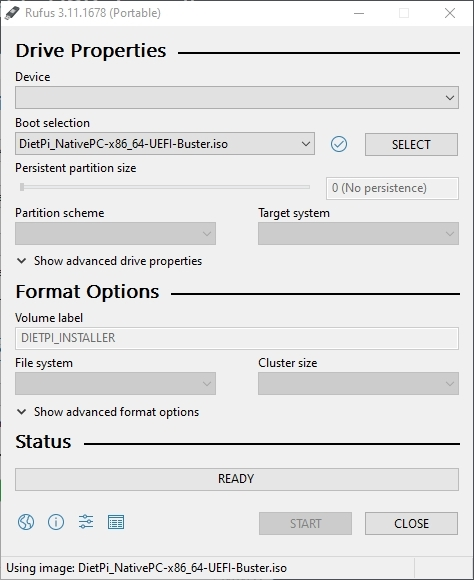
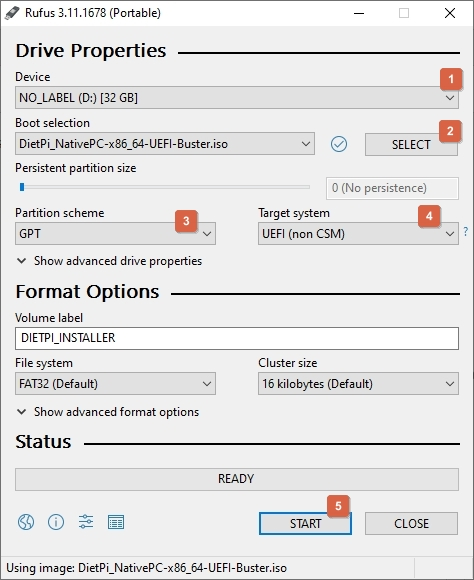
install details & release notes

diff --git a/docs/release-notes-updates.md b/docs/release-notes-updates.md
@@ -218,3 +218,108 @@ Last but certainly not least, a big **Thank You** to the following people who co
 - DietPi-Software | Mopidy: Resolved an issue where installs on Debian Buster and above were not complete since Mopidy v3 uses Python3. Many thanks to @lupa18 for reporting this issue: #3485
 - DietPi-Software | Nextcloud Talk: Worked around an external bug where Nextcloud Talk app failed to install. Many thanks to @harmlessdrudge for reporting this issue: #3499
 
+## January 2020 (version v6.28 - Hotfix)
+
+### Improvements
+
+- **DietPi-Software**  :octicons-commit-24: **Home Assistant**  :octicons-arrow-right-16: The new homeassistant-update.sh script, for quickly updating your Home Assistant version, now gets execute permissions on install.
+Bug Fixes
+- **System** :octicons-arrow-right-16:  Resolved an issue were the chosen CPU governor was not applied correctly. Many thanks to @bbsixzz for reporting the issue and @Joulinar for providing the solution: https://github.com/MichaIng/DietPi/issues/3299
+- **DietPi-Software** :octicons-arrow-right-16: Resolved an issue were zip archive extraction failed. Many thanks to @dcallen7 for reporting this issue: https://github.com/MichaIng/DietPi/issues/3300
+- **DietPi-Software** | **phpMyAdmin** :octicons-arrow-right-16: Resolved an issue where reinstalls failed if phpMyAdmin was installed prior DietPi v6.27 with Lighttpd or Nginx as webserver. Many thanks to @Nightliss for reporting the issue and @Joulinar for providing the solution: https://github.com/MichaIng/DietPi/issues/3304
+- **DietPi-Software** | **Home Assistant** :octicons-arrow-right-16: Resolved an issue where the service failed to start if prior to reinstall the data dir permissions were not set correctly. Many thanks to @huettenwirt for reporting this issue: https://github.com/MichaIng/DietPi/issues/3219#issuecomment-570582486
+
+As always, many smaller code performance and stability improvements, visual and spelling fixes have been done, too much to list all of them here. Check out all code changes of this release on GitHub: https://github.com/MichaIng/DietPi/pull/3310
+
+### Known/Outstanding Issues
+- **DietPi-Config** :octicons-arrow-right-16: Enabling WiFi + Ethernet adapters, both on different subnets, breaks WiFi connection in some cases: https://github.com/MichaIng/DietPi/issues/2103
+- **RPi** :octicons-arrow-right-16: On TigerVNC virtual desktop, LXAppearance hangs on dbus-launch: https://github.com/MichaIng/DietPi/issues/1791
+- **Odroid C2** :octicons-arrow-right-16: Some WiFi adapters do no work as hotspot: https://github.com/MichaIng/DietPi/issues/1955
+- **Odroid XU4** :octicons-arrow-right-16: Kodi freezes shortly on video playback: https://github.com/MichaIng/DietPi/issues/2584
+- **Rock64** :octicons-arrow-right-16: 3.5mm A/V jack is currently not functional: https://github.com/MichaIng/DietPi/issues/2522
+- **DietPi-Software**  :octicons-commit-24: **Node-RED** :octicons-arrow-right-16:  Pre-installed modules cannot be updated via web UI: https://github.com/MichaIng/DietPi/issues/2073
+- **DietPi-Software**  :octicons-commit-24: **Raspimjpeg** :octicons-arrow-right-16: With Lighttpd, streaming mjpeg does not work: https://github.com/MichaIng/DietPi/issues/1747
+- **DietPi-Software**  :octicons-commit-24: **MATE desktop** :octicons-arrow-right-16: When logging in as root, desktop items and right-clock context menu is missing: https://github.com/MichaIng/DietPi/issues/3160
+- **DietPi-Software**  :octicons-commit-24:  **Sonarr/Mono** :octicons-arrow-right-16:  With current Mono version 6, import to a file system without UNIX permissions support (exFAT, FAT32/vfat and NTFS without "permissions" option) fails, regardless of user/umask mount options: https://github.com/MichaIng/DietPi/issues/3179
+- **DietPi-Software**  :octicons-commit-24:  **Transmission** :octicons-arrow-right-16: On Raspbian/Debian Stretch, RAM usage raises unlimited over time: https://github.com/MichaIng/DietPi/issues/2413
+
+For all additional issues that may appear after release, please see the following link for active tickets: https://github.com/MichaIng/DietPi/issues
+
+## January 2020 (version v6.27)
+
+### Improvements
+
+- **FriendlyARM ZeroPi** :octicons-arrow-right-16: Initial hardware identifier (ID: 59) and support for this device has been added to DietPi. Many thanks to @Stephan for creating the related DietPi image: https://github.com/MichaIng/DietPi/issues/3221
+- **RPi** :octicons-arrow-right-16: An updated USBridgeSig Ethernet driver, as provided by allo.com, will be applied via postinst kernel script, until it has been merged into official RPi kernel: https://github.com/allocom/USBridgeSig/tree/master/ethernet
+- **RPi4** :octicons-arrow-right-16: Added generic RPi4 revision code detection to include the new revisions [abc]03112 and potential new PCB v1.3 til v1.9 once released. Many thanks to @Joulinar for reporting the missing new revision code: https://github.com/MichaIng/DietPi/issues/3257#issuecomment-565370856
+- **RPi4** :octicons-arrow-right-16: Since RPi4, bootloader and USB firmware is stored on an internal EEPROM, which is not updated/flashed by the firmware APT package installs automatically. The additional "rpi-eeprom" package comes with an EEPROM update script and boot service, which will now be installed on DietPi update and firstrun setup automatically, if RPi4 is detected. Those firmware updates include power consumption (hence heat emission) optimisations and enable additional boot methods, currently network boot and USB boot is planned as well. This was reason enough for us to implement it automatically for all RPi4 systems. Additionally you can actively install/update the EEPROM manually via dietpi-config > Advanced Options > Update RPi4 EEPROM firmware. For additional information, read the official docs: https://www.raspberrypi.org/documentation/hardware/raspberrypi/booteeprom.md Many thanks to @trueaspects for informing us about this important subject: https://github.com/MichaIng/DietPi/issues/3217
+- **Virtual Machines** :octicons-arrow-right-16: Intel/AMD CPU microcode update packages are not installed/purged from virtual machines. The CPU is provided by the host, hypervisors do not allow to update microcode from within the guest, reasonably, and if they did, this would be serious security and stability issue.
+- **DietPi-Globals** :octicons-arrow-right-16: A new function G_TERM_CLEAR has been added to clear a current terminal view by moving content into scrollback buffer. The previous method erased current visible content on some terminal types. Many thanks to @rdslw for reporting this issue: https://github.com/MichaIng/DietPi/issues/1615#issuecomment-562928032
+- **DietPi-PREP** :octicons-arrow-right-16: New images will have all man pages and documentation files for installed packages available. Those were removed until now, but prevented users from simply installing man-db to view man pages on the system, without reinstalling packages to restore those first. Many thanks to @smudgered for doing this suggestion: https://github.com/MichaIng/DietPi/issues/3259
+- **DietPi-Software** :octicons-arrow-right-16: The general network check against first sources.list entry has been replaced by a pure connectivity test and separate DNS resolver test via ping. This solves an issue where sources.list parsing failed when [arch=...] was specified and allows better debugging. The sources list entries themselves are checked and error-handled by G_AGUP already. Ping target IP for connection test and domain for DNS resolver test can be set via dietpi.txt, default is Cloudflare DNS IP and domain which should be very reliable and fast all over the world. Many thanks to @lwqcz for reporting the issue and providing a solution: https://github.com/MichaIng/DietPi/pull/3243
+- **DietPi-Software** | **TasmoAdmin** :octicons-arrow-right-16: The administrative website to manage ESP8266 devices flashed with Tasmota for smart home systems is now available for install. Many thanks to @svh1985 for implementing this software title: https://github.com/MichaIng/DietPi/issues/3103
+- **DietPi-Software** | **ownCloud** :octicons-arrow-right-16: Enabled install on Buster, Bullseye and ARMv6 RPi models (RPi1+Zero). ownCloud 10.3 has been release with PHP7.3 support, hence it can be used with native distro PHP7.3 and does not require Ondrej's PHP repo which does not support armv6hf.
+- **DietPi-Software** | **Syncthing** :octicons-arrow-right-16: Enhanced service by security hardenings and to allow internal updates and auto updates without failing to restart. Moved binary from /etc/syncthing to /opt/syncthing to match FHS and disabled file logging, which is an unnecessary overhead, since logs can be easily viewed via "journalctl -u syncthing". Changes will be applied to all installs on v6.27 update, existing configs won't be touched by this.
+- **DietPi-Software** | **NAA daemon** :octicons-arrow-right-16: Latest version is now scraped from base URL and installed automatically. Many thanks to @Heroldgray for doing this suggestion: https://github.com/MichaIng/DietPi/issues/3191
+- **DietPi-Software** | **Home Assistant** :octicons-arrow-right-16: Python3.8 will be installed for the pyenv from now on due to Python3.6 deprecation. Many thanks to @sdomotica for providing this information: https://github.com/MichaIng/DietPi/issues/3219
+- **DietPi-Software** | **Home Assistant** :octicons-arrow-right-16: When selecting for install, one will be informed about possibly long install/build times. Many thanks to @Gill-Bates for doing this suggestion to avoid users assuming their install process being stuck: https://github.com/MichaIng/DietPi/issues/2897
+- **DietPi-Software** | **Home Assistant** :octicons-arrow-right-16: Vastly reduced Home Assistant dependencies and install complexity. It does not run inside a virtualenv of pyenv anymore, since it has already its unique pyenv Python instance. pyenv is still required due to the large amount of specific module versions, required for HA and its integrations. The alternative would be a venv from a globally installed Python instance, but this requires further thoughts and discussion. The amount of development libraries and tools, installed via APT, has been updated and reduced to a minimum to build Python and Home Assistant inside the pyenv without errors and warnings. There is a slightly increased chance that certain HA components need additional development packages. To cover this, two new settings have been added to dietpi.txt: "SOFTWARE_HOMEASSISTANT_APT_DEPS" and "SOFTWARE_HOMEASSISTANT_PIP_DEPS". Add a space-separated list of APT packages and pip modules respectively, to have those installed automatically with Home Assistant. As well activating the pyenv environment from console is now easier possible via "source /home/homeassistant/pyenv-activate.sh" as user "homeassistant". Additionally "/home/homeassistant/homeassistant-update.sh" has been added, which can be called by any sudo-capable user to update Home Assistant easily.
+- **DietPi-Software** | **Node-RED** :octicons-arrow-right-16: Access permissions to I2C is now enabled by default on RPi and other SBCs which ship a configured "i2c" group by default. Many thanks to @NastySpill for reporting an underlying issue: https://dietpi.com/phpbb/viewtopic.php?f=11&t=6862
+- **DietPi-Software** | **Gitea** :octicons-arrow-right-16: The latest version will now be pulled from GitHub automatically.
+- **DietPi-Software** | **Amiberry** :octicons-arrow-right-16: Updated to v3.0.9, a large update from v2.25 with many improvements, see: https://github.com/midwan/amiberry/releases
+- **DietPi-Software** | **Amiberry** :octicons-arrow-right-16: Since we ship a tailored SDL2 version, this has now been merged right into the Amiberry download archive and install directory, to not interfere with other system-wide installed SDL2 instances.
+- **DietPi-Software** | **Kodi** :octicons-arrow-right-16: Add GPU-accelerated support for Odroid N2 via fbdev driver and special Kodi build, provided by Meveric. Many thanks to @ernero93 for doing this request: https://github.com/MichaIng/DietPi/issues/3255
+- **DietPi-Software** | **Koel** :octicons-arrow-right-16: The latest upstream release will be pulled automatically now, v4.2.2 at date of writing. Dependencies have been updated accordingly, e.g. latest Koel supports latest Node.js v13.5.0.
+- **DietPi-Software** | **NoMachine** :octicons-arrow-right-16: Updated to latest version 6.9.2 and switched to URL with no version string, which allows us to update downloads on-the-fly without code changes. Download URLs from official website have been simplified and follow some logic, but there are no "latest" URLs available and older versions are not kept, hence we must go on hosting those packages on dietpi.com.
+- **DietPi-Software** | **Allo web UI** :octicons-arrow-right-16: Updated to version 13.1, which mostly fixes some compatibility issues with DietPi v6.27 and Debian Buster systems. For details, see: /var/www/allo/CHANGELOG.txt
+DietPi-Software | phpMyAdmin: The APT package install has been replaced by an upstream archive download. This allows us to ship the most current version on all distro versions and avoids incompatibility due to PHP meta packages being pulled as dependencies by the APT package. Install on Buster and Bullseye is possible now by this and incompatibility with concurrent ownCloud and phpBB has been resolved. On Stretch this resolves an issue due to new PHP7.4 being pulled by "php" meta package from Ondrejs repo. Many thanks to @symlagom for reporting this issue: https://github.com/MichaIng/DietPi/issues/3284
+
+### Bug Fixes
+
+- **DietPi-PREP** :octicons-arrow-right-16: Resolved an issue, where in rare cases a wrong $PATH variable could break command calls. Many thanks to @dtm2001 for reporting this issue: https://github.com/MichaIng/DietPi/issues/3206
+- **DietPi-Explorer** :octicons-arrow-right-16: Resolved an issue where handling of file/directory paths with white spaces failed. Many thanks to @gabboman for reporting this issue: https://dietpi.com/phpbb/viewtopic.php?f=11&t=7046
+- **DietPi-Drive_Manager** :octicons-arrow-right-16: Resolved an issue where, after transferring the root file system, the script itself could revert the fstab entry, since a reboot was not forced anymore since v6.22. This change has been reverted, hence a reboot cannot be skipped to avoid any fstab revert and inconsistency with cmdline. Many thanks to @DutchFlash for reporting this issue: https://dietpi.com/phpbb/viewtopic.php?f=11&t=6645
+- **DietPi-Drive_Manager** :octicons-arrow-right-16: Resolved an issue where, in rare cases, all drives were mounted as R/O on boot. Many thanks to @samolego for reporting this issue: https://github.com/MichaIng/DietPi/issues/3268
+- **DietPi-Autostart** :octicons-arrow-right-16: Resolved an issue where non-interactive script calls, e.g. done by dietpi-software installs, reset prior made auto login user choices. Many thanks to @zedrdave for reporting this issue: https://github.com/MichaIng/DietPi/issues/3242
+- **DietPi-Config** | **RPi** :octicons-arrow-right-16:  Resolved an issue where PSU noise reduction state always shows "[Off]". HDMI output will now be toggled immediately, hence no reboot is required for changes to take effect. Many thanks to @maartenlangeveld for reporting this issue: https://github.com/MichaIng/DietPi/issues/3187
+- **DietPi-Software** | **ownCloud/Nextcloud** :octicons-arrow-right-16:  An important security fix has been applied to our ownCloud/Nextcloud Nginx configs. This has been merged into our other GitHub branches as well, hence all fresh installs wont be affected. Read more about it: https://nextcloud.com/blog/urgent-security-issue-in-nginx-php-fpm/
+- **DietPi-Software** | **WireGuard** :octicons-arrow-right-16: Resolved an issue where wg0 server fails to start if network has not yet fully initialised. Many thanks to @Joulinar for reporting this issue: https://github.com/MichaIng/DietPi/issues/3175
+- **DietPi-Software** | **Syncthing** :octicons-arrow-right-16: Resolved an issue where fresh install failed to start due to missing permissions. Many thanks to @ralban, @mowestusa and @g7kse for reporting this issue: https://github.com/MichaIng/DietPi/issues/3180
+- **DietPi-Software** | **Gitea** :octicons-arrow-right-16: Resolved an issue where fresh Gitea installs failed to start due to missing permissions. Many thanks to @NZRob for reporting this issue: https://dietpi.com/phpbb/viewtopic.php?f=11&t=6550
+- **DietPi-Software** | **Home Assistant** :octicons-arrow-right-16: Resolved on issue where fresh install failed to started to start due to missing permissions. Many thanks to @slopsjon, @tyjtyj and @pakikje for reporting this issue: https://dietpi.com/phpbb/viewtopic.php?f=11&t=6531, https://dietpi.com/phpbb/viewtopic.php?p=20408#p20408
+- **DietPi-Software** | **Google AIY** :octicons-arrow-right-16: Resolved an issue where fresh install failed to start due to missing permissions
+- **DietPi-Software** | **Grafana** :octicons-arrow-right-16: Resolved an issue where install failed on RPi 1/Zero Buster systems. The fix includes an update of Grafana to the latest official version for those models. Many thanks to @TBail for reporting this issue: https://github.com/MichaIng/DietPi/issues/3213
+- **DietPi-Software** | **Jackett** :octicons-arrow-right-16: Resolved an issue where the internal updater broke the Jackett instance. Automated updates can be safely enabled again. Many thanks to @ngosang for providing the workaround: https://github.com/MichaIng/DietPi/issues/2593
+- **DietPi-Software** | **Pi-hole** :octicons-arrow-right-16: Resolved an issue where choosing to block public admin panel access on Nginx failed. Many thanks to @anubis-genix for reporting this issue: https://github.com/MichaIng/DietPi/issues/3024#issuecomment-550342684
+- **DietPi-Software** | **Java** :octicons-arrow-right-16: Resolved an issue where install on ARMv6 RPis (1/Zero) on Buster system failed, since Java 11 is not ARMv6-compatible. On these system, Java 8 is now installed instead. Many thanks to @maartenlangeveld for reporting this issue: https://github.com/MichaIng/DietPi/issues/3182
+- **DietPi-Software** | **rTorrent** :octicons-arrow-right-16: Resolved an issue where rTorrent and the webserver didn't have sufficient permissions to read and write ruTorrent web UI settings and data. Many thanks to @notDavid for reporting this issue: https://github.com/MichaIng/DietPi/issues/3244
+- **DietPi-Software** | **rTorrent** :octicons-arrow-right-16: Updated deprecated commands and variables in our default config file. Many thanks to @bbsixzz for reporting this issue: https://github.com/MichaIng/DietPi/issues/3273
+- **DietPi-Software** | **rTorrent** :octicons-arrow-right-16: Resolved an issue where ruTorrent DarkBetter theme was not installed. Many thanks to @bbsixzz for reporting this issue: https://github.com/MichaIng/DietPi/issues/3271
+- **DietPi-Software** | **Amiberry** :octicons-arrow-right-16: Resolved an issue where the binary fails to execute on Odroid XU4. Many thanks to @wasu111 for reporting this issue: https://github.com/MichaIng/DietPi/issues/3181
+- **DietPi-Software** | **Tor Hotspot** :octicons-arrow-right-16: Resolved an issue where, since Buster, Tor fails to start due to deprecated config file entries. Many thanks to @blizarazu for reporting this issue: https://github.com/MichaIng/DietPi/issues/3261
+- **DietPi-Software** | **Allo web GUI** :octicons-arrow-right-16: Resolved an issue where web access fails due to wrong permissions. Many thanks to @Heroldgray for reporting this issue: https://github.com/MichaIng/DietPi/issues/3264
+DietPi-Software | GMediaRender: Resolved an issue where service fails to start due to missing permissions. Many thanks to @fnsnyc for reporting this issue: https://github.com/MichaIng/DietPi/issues/3263
+- **DietPi-Software** | **GMediaRender** :octicons-arrow-right-16: Resolved issues due to limited binary features by using new own compiled binaries, based on gmrender-resurrect v0.0.8. Many thanks to @fnsnyc and @hifitime for reporting this issue: https://github.com/MichaIng/DietPi/issues/3263, https://github.com/MichaIng/DietPi/issues/3246
+- **DietPi-Software** | **Nextcloud** :octicons-arrow-right-16: Resolved an issue where install fails due to a bug in Nextcloud 17.0.2. DietPi will now install Nextcloud 17.0.1 until the bug has been fixed. Updates from web UI are still possible, this only affects the fresh install. Many thanks to @DevinCharles for reporting this issue: https://github.com/MichaIng/DietPi/issues/3275
+- **DietPi-Software** | **Redis** :octicons-arrow-right-16: Resolved an issue where service start failed in some cases. File logging is now disabled and replaced by journal logging, hence all combined Redis logs are now available via: journalctl -u redis-server. Many thanks to @dankerthrone for reporting this issue: https://github.com/MichaIng/DietPi/issues/3291
+
+As always, many smaller code performance and stability improvements, visual and spelling fixes have been done, too much to list all of them here. Check out all code changes of this release on GitHub: https://github.com/MichaIng/DietPi/pull/3290
+
+### Known/Outstanding Issues
+
+- **DietPi-Config** - Enabling WiFi + Ethernet adapters, both on different subnets, breaks WiFi connection in some cases: https://github.com/MichaIng/DietPi/issues/2103
+- **RPi** - On TigerVNC virtual desktop, LXAppearance hangs on dbus-launch: https://github.com/MichaIng/DietPi/issues/1791
+- **Odroid C2** - Some WiFi adapters do no work as hotspot: https://github.com/MichaIng/DietPi/issues/1955
+- **Odroid XU4** - Kodi freezes shortly on video playback: https://github.com/MichaIng/DietPi/issues/2584
+- **Rock64** - 3.5mm A/V jack is currently not functional: https://github.com/MichaIng/DietPi/issues/2522
+- **DietPi-Software** | **Node-RED** :octicons-arrow-right-16: Pre-installed modules cannot be updated via web UI: https://github.com/MichaIng/DietPi/issues/2073
+- **DietPi-Software** | **Raspimjpeg** :octicons-arrow-right-16: With Lighttpd, streaming mjpeg does not work: https://github.com/MichaIng/DietPi/issues/1747
+- **DietPi-Software** | **MATE desktop** :octicons-arrow-right-16: When logging in as root, desktop items and right-clock context menu is missing: https://github.com/MichaIng/DietPi/issues/3160
+- **DietPi-Software** | **Sonarr/Mono** :octicons-arrow-right-16: With current Mono version 6, import to a file system without UNIX permissions support (exFAT, FAT32/vfat and NTFS without "permissions" option) fails, regardless of user/umask mount options: https://github.com/MichaIng/DietPi/issues/3179
+- **DietPi-Software** | **Transmission** :octicons-arrow-right-16: On Raspbian/Debian Stretch, RAM usage raises unlimited over time: https://github.com/MichaIng/DietPi/issues/2413
+
+For all additional issues that may appear after release, please see the following link for active tickets: https://github.com/MichaIng/DietPi/issues
+
+## Earlier updates 2015 - 2019
+
+For earlier updates check the **[Forum Archive](https://dietpi.com/phpbb/viewforum.php?f=10)**. 

diff --git a/docs/user-guide_install_uefi.md b/docs/user-guide_install_uefi.md
@@ -38,17 +38,21 @@ Download **[Rufus](https://rufus.ie/)** and run the application. There is a port
 
 ## 2. Flash image to USB drive
 
-Start the program and make sure you have your USB drive inserted into your computer. Locate and select the DietPi image.
+Start **[Rufus](https://rufus.ie/)** application and make sure you have your USB drive inserted into your computer. Follow the next steps:
+
+- (1) Select the USB device
+- (2) Select the downloaded **DietPi** image.
+- (3) Select GPT as partition scheme
+- (4) Select UEFI as target system
+- (5) Click on _Start_ button
+	
+	_Note: Ensure the selected USB card is the correct one ! The app will wipe the drive, so if you choose the wrong one, you may risk losing data._
 
 ![dietpi-rufus-uefi](assets/images/dietpi-rufus-uefi.jpg)
 
-Next, ensure that the USB card selected is the correct one. It will wipe the drive clean, so if you choose the wrong one, you may risk losing data.
+## 3. Boot target PC and install the image on the local disk
 
-Once you have confirmed all the details are correct, proceed to flash the USB drive. 
-
-## 3. Boot target PC and install image on the harddisk
-
-Boot **target PC** from USB image and install image on the harddisk. Put the USB stick into the target PC and boot from this USB stick (possibly it will be necessary to change BIOS settings, this is not described here).
+Boot **target PC** from USB image and install image on the local disk / harddisk. Put the USB stick into the target PC and boot from this USB stick _Note: it may be necessary to change BIOS settings to enabled the UEFI boot. This action is not described here._
 
 During the initial boot, the following dialog may appear to boot from the USB stick:
 
